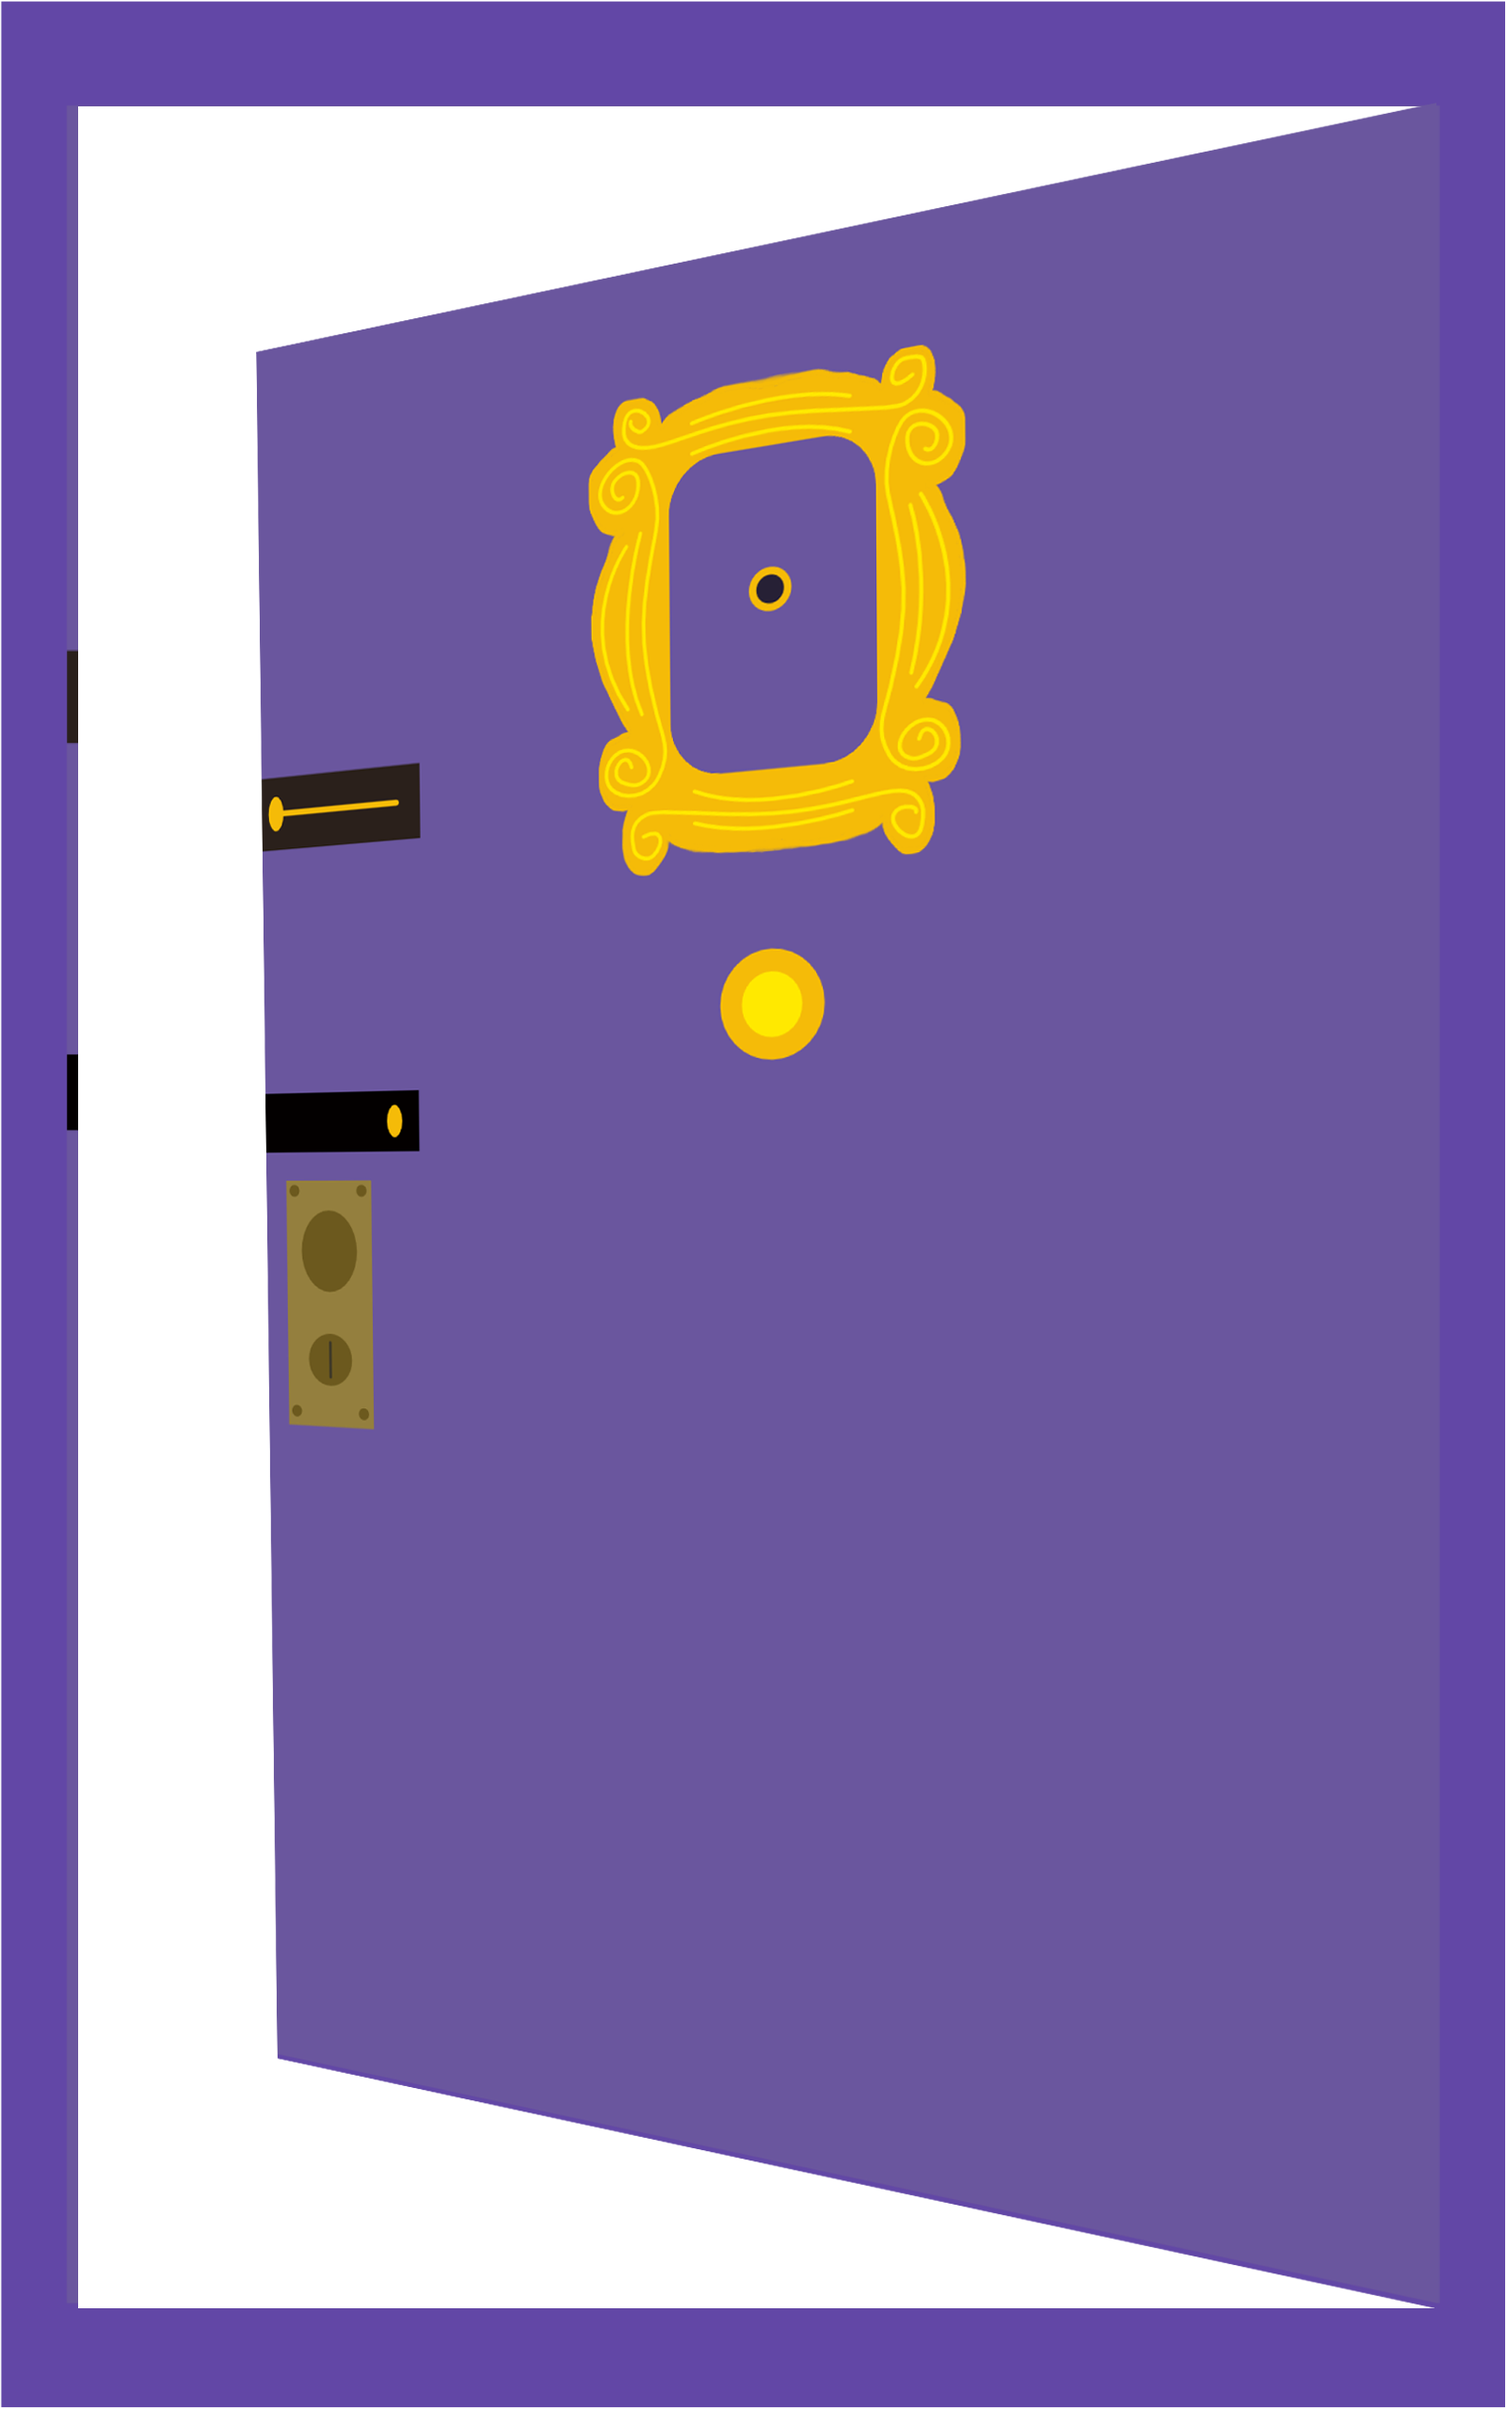
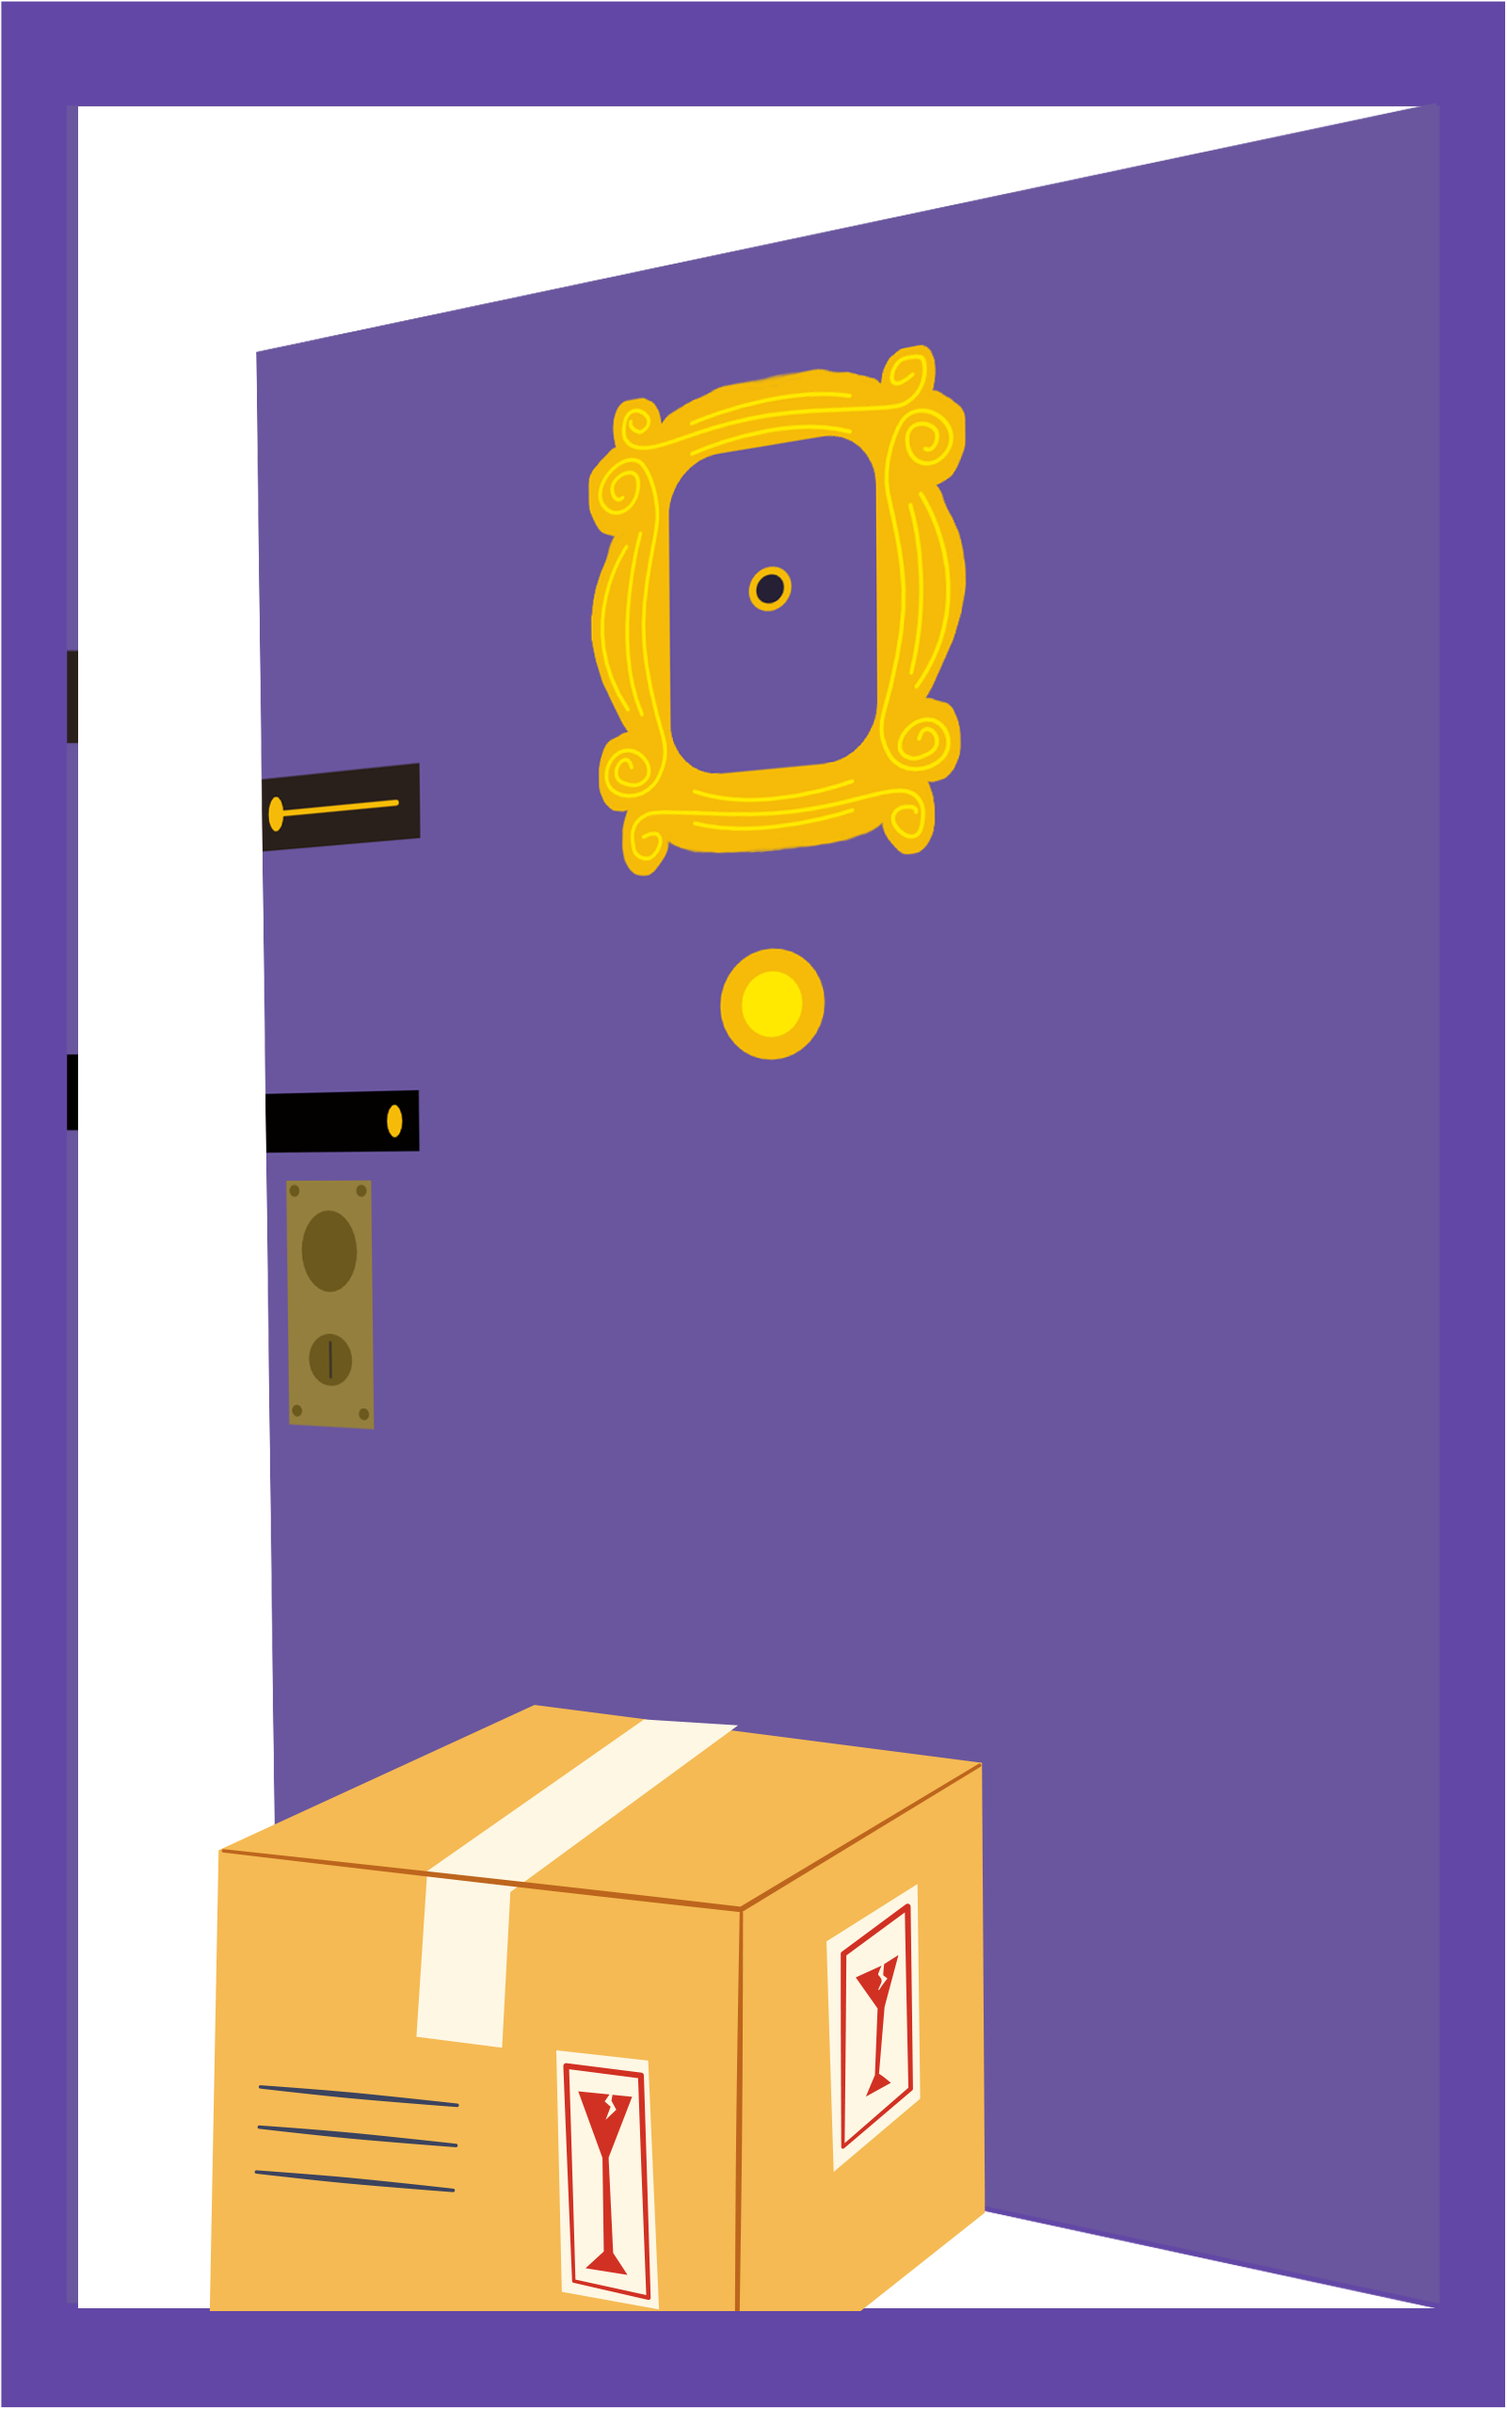
Lenghtening story

Changed region(s): [[0.1249, 0.71, 0.6558, 0.957]]

diff --git a/portfolio.js b/portfolio.js
@@ -1,1 +1,1 @@
-var storyContent = {"inkVersion":20,"root":[["^Would you like to play a game?","\n","ev","str","^Yes","/str","/ev",{"*":"0.c-0","flg":20},["ev",{"^->":"0.8.$r1"},{"temp=":"$r"},"str",{"->":".^.s"},[{"#n":"$r1"}],"/str","/ev",{"*":"0.c-1","flg":18},{"s":["^<a href=\"/ResumeCurrent.html\">No</a>",{"->":"$r","var":true},null]}],{"c-0":[{"->":"BeginGame"},"\n",{"->":"0.g-0"},{"#f":5}],"c-1":["ev",{"^->":"0.c-1.$r2"},"/ev",{"temp=":"$r"},{"->":"0.8.s"},[{"#n":"$r2"}],"\n","done",{"->":"0.g-0"},{"#f":5}],"g-0":["done",{"#f":5}]}],"done",{"BeginGame":[[{"#":"CLEAR"},{"#":"IMAGE: Images/Door.png"},"^Knock Knock Knock....","\n","ev","str","^Open Door","/str","/ev",{"*":".^.c-0","flg":20},"ev","str","^<a href=\"/ResumeCurrent.html\">Nevermind, I don't want to play</a>","/str","/ev",{"*":".^.c-1","flg":20},{"c-0":["^ ",{"->":"OpenDoor"},"\n",{"#f":5}],"c-1":["\n","done",{"#f":5}]}],{"#f":1}],"OpenDoor":[{"#":"CLEAR"},{"#":"IMAGE: Images/OpenDoor.png"},"^What could that be?","\n","done",{"#f":1}],"#f":1}],"listDefs":{}};
+var storyContent = {"inkVersion":20,"root":[["^Would you like to play a game?","\n","ev","str","^Yes","/str","/ev",{"*":"0.c-0","flg":20},["ev",{"^->":"0.8.$r1"},{"temp=":"$r"},"str",{"->":".^.s"},[{"#n":"$r1"}],"/str","/ev",{"*":"0.c-1","flg":18},{"s":["^<a href=\"/ResumeCurrent.html\">No</a>",{"->":"$r","var":true},null]}],{"c-0":[{"->":"BeginGame"},"\n",{"->":"0.g-0"},{"#f":5}],"c-1":["ev",{"^->":"0.c-1.$r2"},"/ev",{"temp=":"$r"},{"->":"0.8.s"},[{"#n":"$r2"}],"\n","done",{"->":"0.g-0"},{"#f":5}],"g-0":["done",{"#f":5}]}],"done",{"BeginGame":[[{"#":"CLEAR"},{"#":"IMAGE: Images/Door.png"},"^Knock Knock Knock....","\n","ev","str","^Open Door","/str","/ev",{"*":".^.c-0","flg":20},"ev","str","^<a href=\"/ResumeCurrent.html\">Nevermind, I don't want to play</a>","/str","/ev",{"*":".^.c-1","flg":20},{"c-0":["^ ",{"->":"OpenDoor"},"\n",{"#f":5}],"c-1":["\n","done",{"#f":5}]}],{"#f":1}],"OpenDoor":[[{"#":"CLEAR"},{"#":"IMAGE: Images/OpenDoor.png"},"^What could that be?","\n","ev","str","^Pick up the box","/str","/ev",{"*":".^.c-0","flg":20},"ev","str","^Push the box aside and close the door","/str","/ev",{"*":".^.c-1","flg":20},"ev","str","^Peek outside to see who left it","/str","/ev",{"*":".^.c-2","flg":20},{"c-0":[{"->":"PickUpBox"},"\n",{"#f":5}],"c-1":[{"->":"CloseDoorAgain"},"\n",{"#f":5}],"c-2":[{"->":"PeekOutside"},"\n","done",{"#f":5}]}],{"#f":1}],"PickUpBox":[{"#":"CLEAR"},{"#":"IMAGE: Images/OpenDoor.png"},"^Hmmm....should you open it?","\n","done",{"#f":1}],"CloseDoorAgain":[{"#":"CLEAR"},{"#":"IMAGE: Images/OpenDoor.png"},"^Not today...","\n","done",{"#f":1}],"PeekOutside":[{"#":"CLEAR"},{"#":"IMAGE: Images/OpenDoor.png"},"^Hello....","\n","done",{"#f":1}],"#f":1}],"listDefs":{}};
